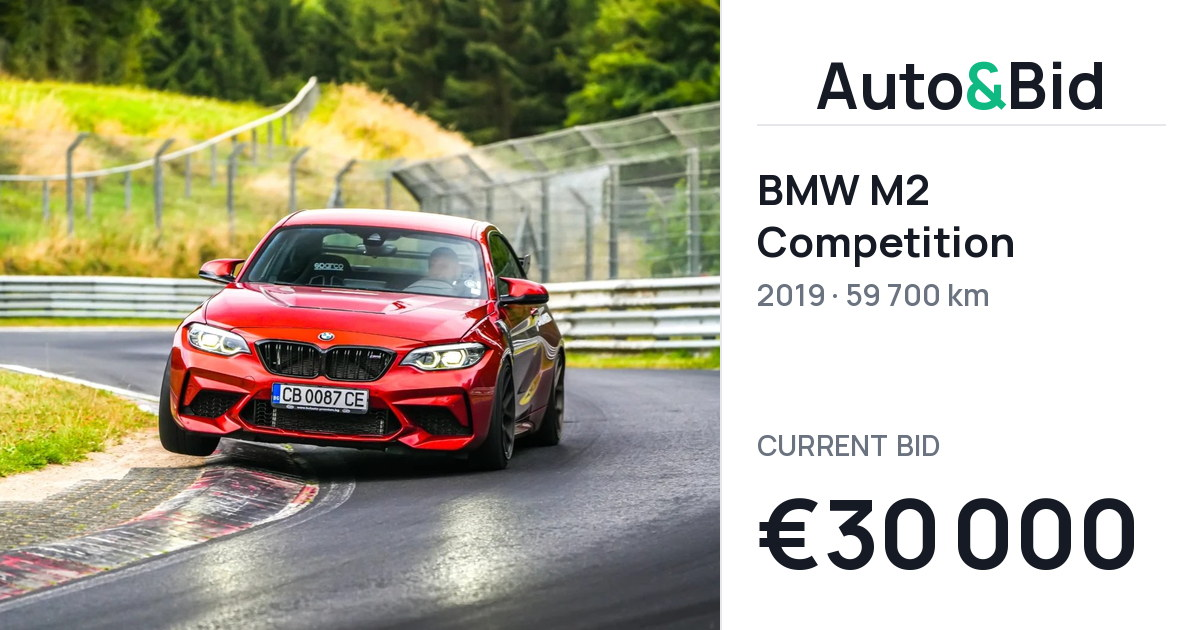
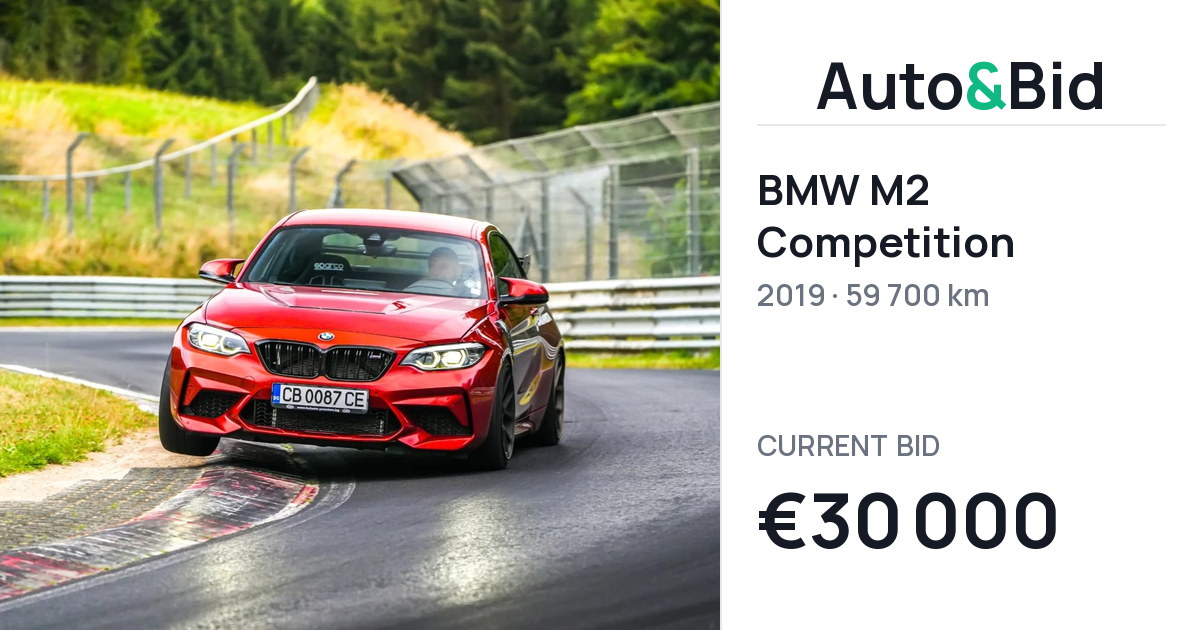
Auto-generated changes

Changed region(s): [[0.6167, 0.7841, 0.9558, 0.9048]]

diff --git a/backend/services/og_image.py b/backend/services/og_image.py
@@ -277,7 +277,7 @@ def _compose_image(
     bottom_y = _H - _PAD - 4
     if bid_label:
         muted_font = _font("Manrope-SemiBold.ttf", 28)
-        bid_font = _font("Manrope-Bold.ttf", 96)
+        bid_font = _font("Manrope-Bold.ttf", 76)
         sub_font = _font("Manrope-SemiBold.ttf", 22)
         # "CURRENT BID" small-caps label — draw word-by-word so the space
         # is visually correct (Manrope SemiBold collapses ASCII space too